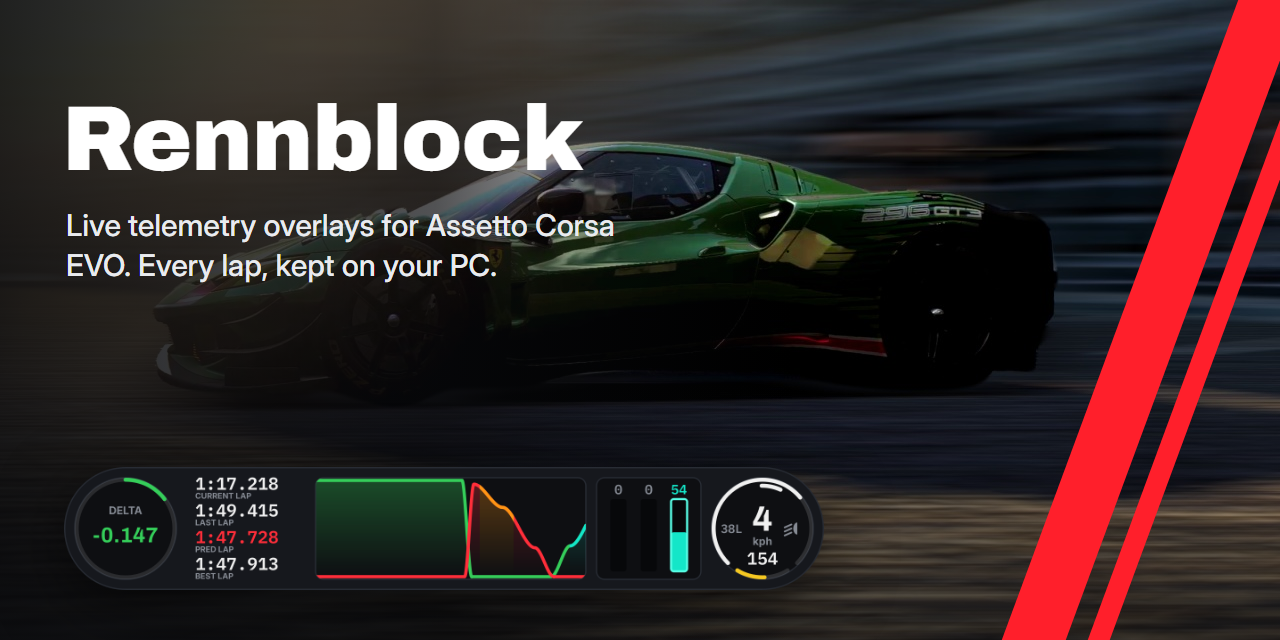
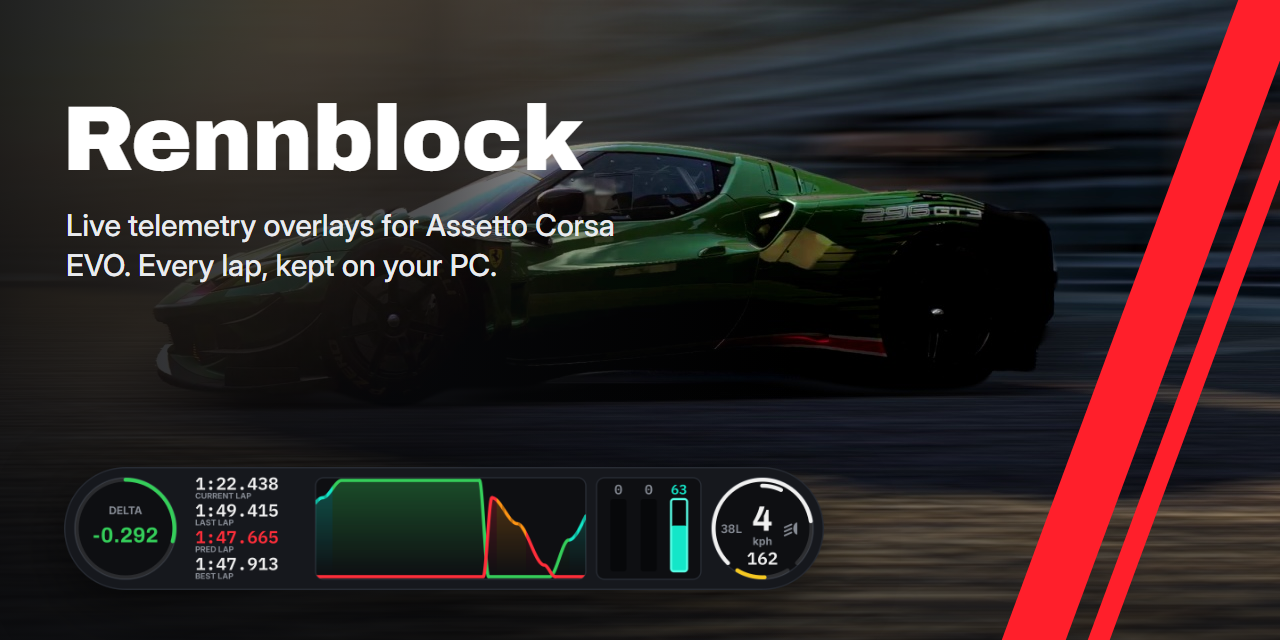
Show Rennblock 0.1.15: new pictures and the page brought up to date
The panel's pages, the overlays, the hero, the moving overlay and the
launcher's screens are drawn again from 0.1.15's own code. General no
longer shows the Local server row 0.1 does not have, and the data folder
is written as %LOCALAPPDATA%. TC and ABS blink in the overlay as in the
game. Your driving counts each lap as you drive it, the tray costs next
to nothing, and the beta/ folder is explained.

diff --git a/README.md b/README.md
@@ -55,7 +55,7 @@ The media overlay shows what Windows is playing: cover, title, artist and positi
 
 Rennblock saves your laps as you drive.
 
-- **Your driving:** a calendar of the days you were on track, with this week, this month, your streak and your best day.
+- **Your driving:** a calendar of the days you were on track, with this week, this month, your streak and your best day, counting each lap as you drive it.
 - **This session:** track, car and laps, live.
 - **Recent laps**, each one marked valid or out.
 - **Personal bests**, one per track and car, from valid laps only.
@@ -70,7 +70,7 @@ Drag the overlays on a map of your screen, with or without the game running. The
 
 <img src="docs/panel-settings.png" alt="The Settings page: start with Windows, the tray, the shortcuts and the refresh rate" width="100%">
 
-Start Rennblock with Windows if you like, and leave it in the tray: closing the window keeps the overlays on. **Ctrl + Shift + O** shows or hides them, and the refresh rate follows your monitor or is set to 60, 120, 144 or 180 Hz.
+Start Rennblock with Windows if you like, and leave it in the tray, where it uses next to nothing: closing the window keeps the overlays on. **Ctrl + Shift + O** shows or hides them, and the refresh rate follows your monitor or is set to 60, 120, 144 or 180 Hz.
 
 <img src="docs/panel-overlay.png" alt="The Overlay page: each overlay on or off, with the telemetry's options open" width="100%">
 
@@ -82,7 +82,7 @@ There is no account. Your laps and settings are stored in `%LOCALAPPDATA%\Rennbl
 
 ## Updates you can trust
 
-<img src="docs/launcher-update.png" alt="The launcher offering an update: Rennblock 0.1.10 is ready, Update now" width="80%">
+<img src="docs/launcher-update.png" alt="The launcher offering an update: Rennblock 0.1.15 is ready, you have 0.1.14; Skip this version, Not now, Update now" width="80%">
 
 You download one file, `Rennblock.exe`, once, and it stays the same file from one version to the next. It installs Rennblock in your user folder (no administrator rights), adds it to the Start menu, checks every file against its published fingerprint each time it starts, and offers each new version: **Update now**, **Not now** or **Skip this version**.
 
@@ -122,6 +122,7 @@ This repository is not the source code. It carries the signed update list that t
 
 - `manifest.json` — the current release, where to download it, and the SHA-256 fingerprint of every file that is checked each time Rennblock starts.
 - `manifest.sig` — the Ed25519 signature of `manifest.json`.
+- `beta/` — the same pair for the Beta branch, where a version is tried before it is released here.
 
 The launcher accepts an update list only when that signature matches the public key built into it, so a tampered list is refused even if this repository were altered. Each release contains `Rennblock.exe` (the same file in every release), the launcher's archive and the application's archive, with their fingerprints written in the release notes.
 

diff --git a/INSTALL.md b/INSTALL.md
@@ -24,7 +24,7 @@ The launcher shows the privacy notice and the license. Tick the box and choose *
 
 ## 5. Let it download
 
-<img src="docs/launcher-download.png" alt="The launcher downloading Rennblock 0.1.10, at 60 %" width="80%">
+<img src="docs/launcher-download.png" alt="The launcher downloading Rennblock 0.1.15, at 60 %" width="80%">
 
 The launcher downloads Rennblock and checks every file against its published fingerprint. It installs in your user folder, so no administrator rights are needed, and it adds Rennblock to the Start menu and to Installed apps.
 
@@ -36,7 +36,7 @@ The panel opens from the Rennblock icon in the tray, next to the clock. There yo
 
 ## Updates
 
-<img src="docs/launcher-update.png" alt="The launcher offering an update: Rennblock 0.1.10 is ready, Skip this version, Not now, Update now" width="80%">
+<img src="docs/launcher-update.png" alt="The launcher offering an update: Rennblock 0.1.15 is ready, you have 0.1.14; Skip this version, Not now, Update now" width="80%">
 
 When a new version is out, the launcher offers it as Rennblock starts: **Update now**, **Not now** or **Skip this version**.
 
